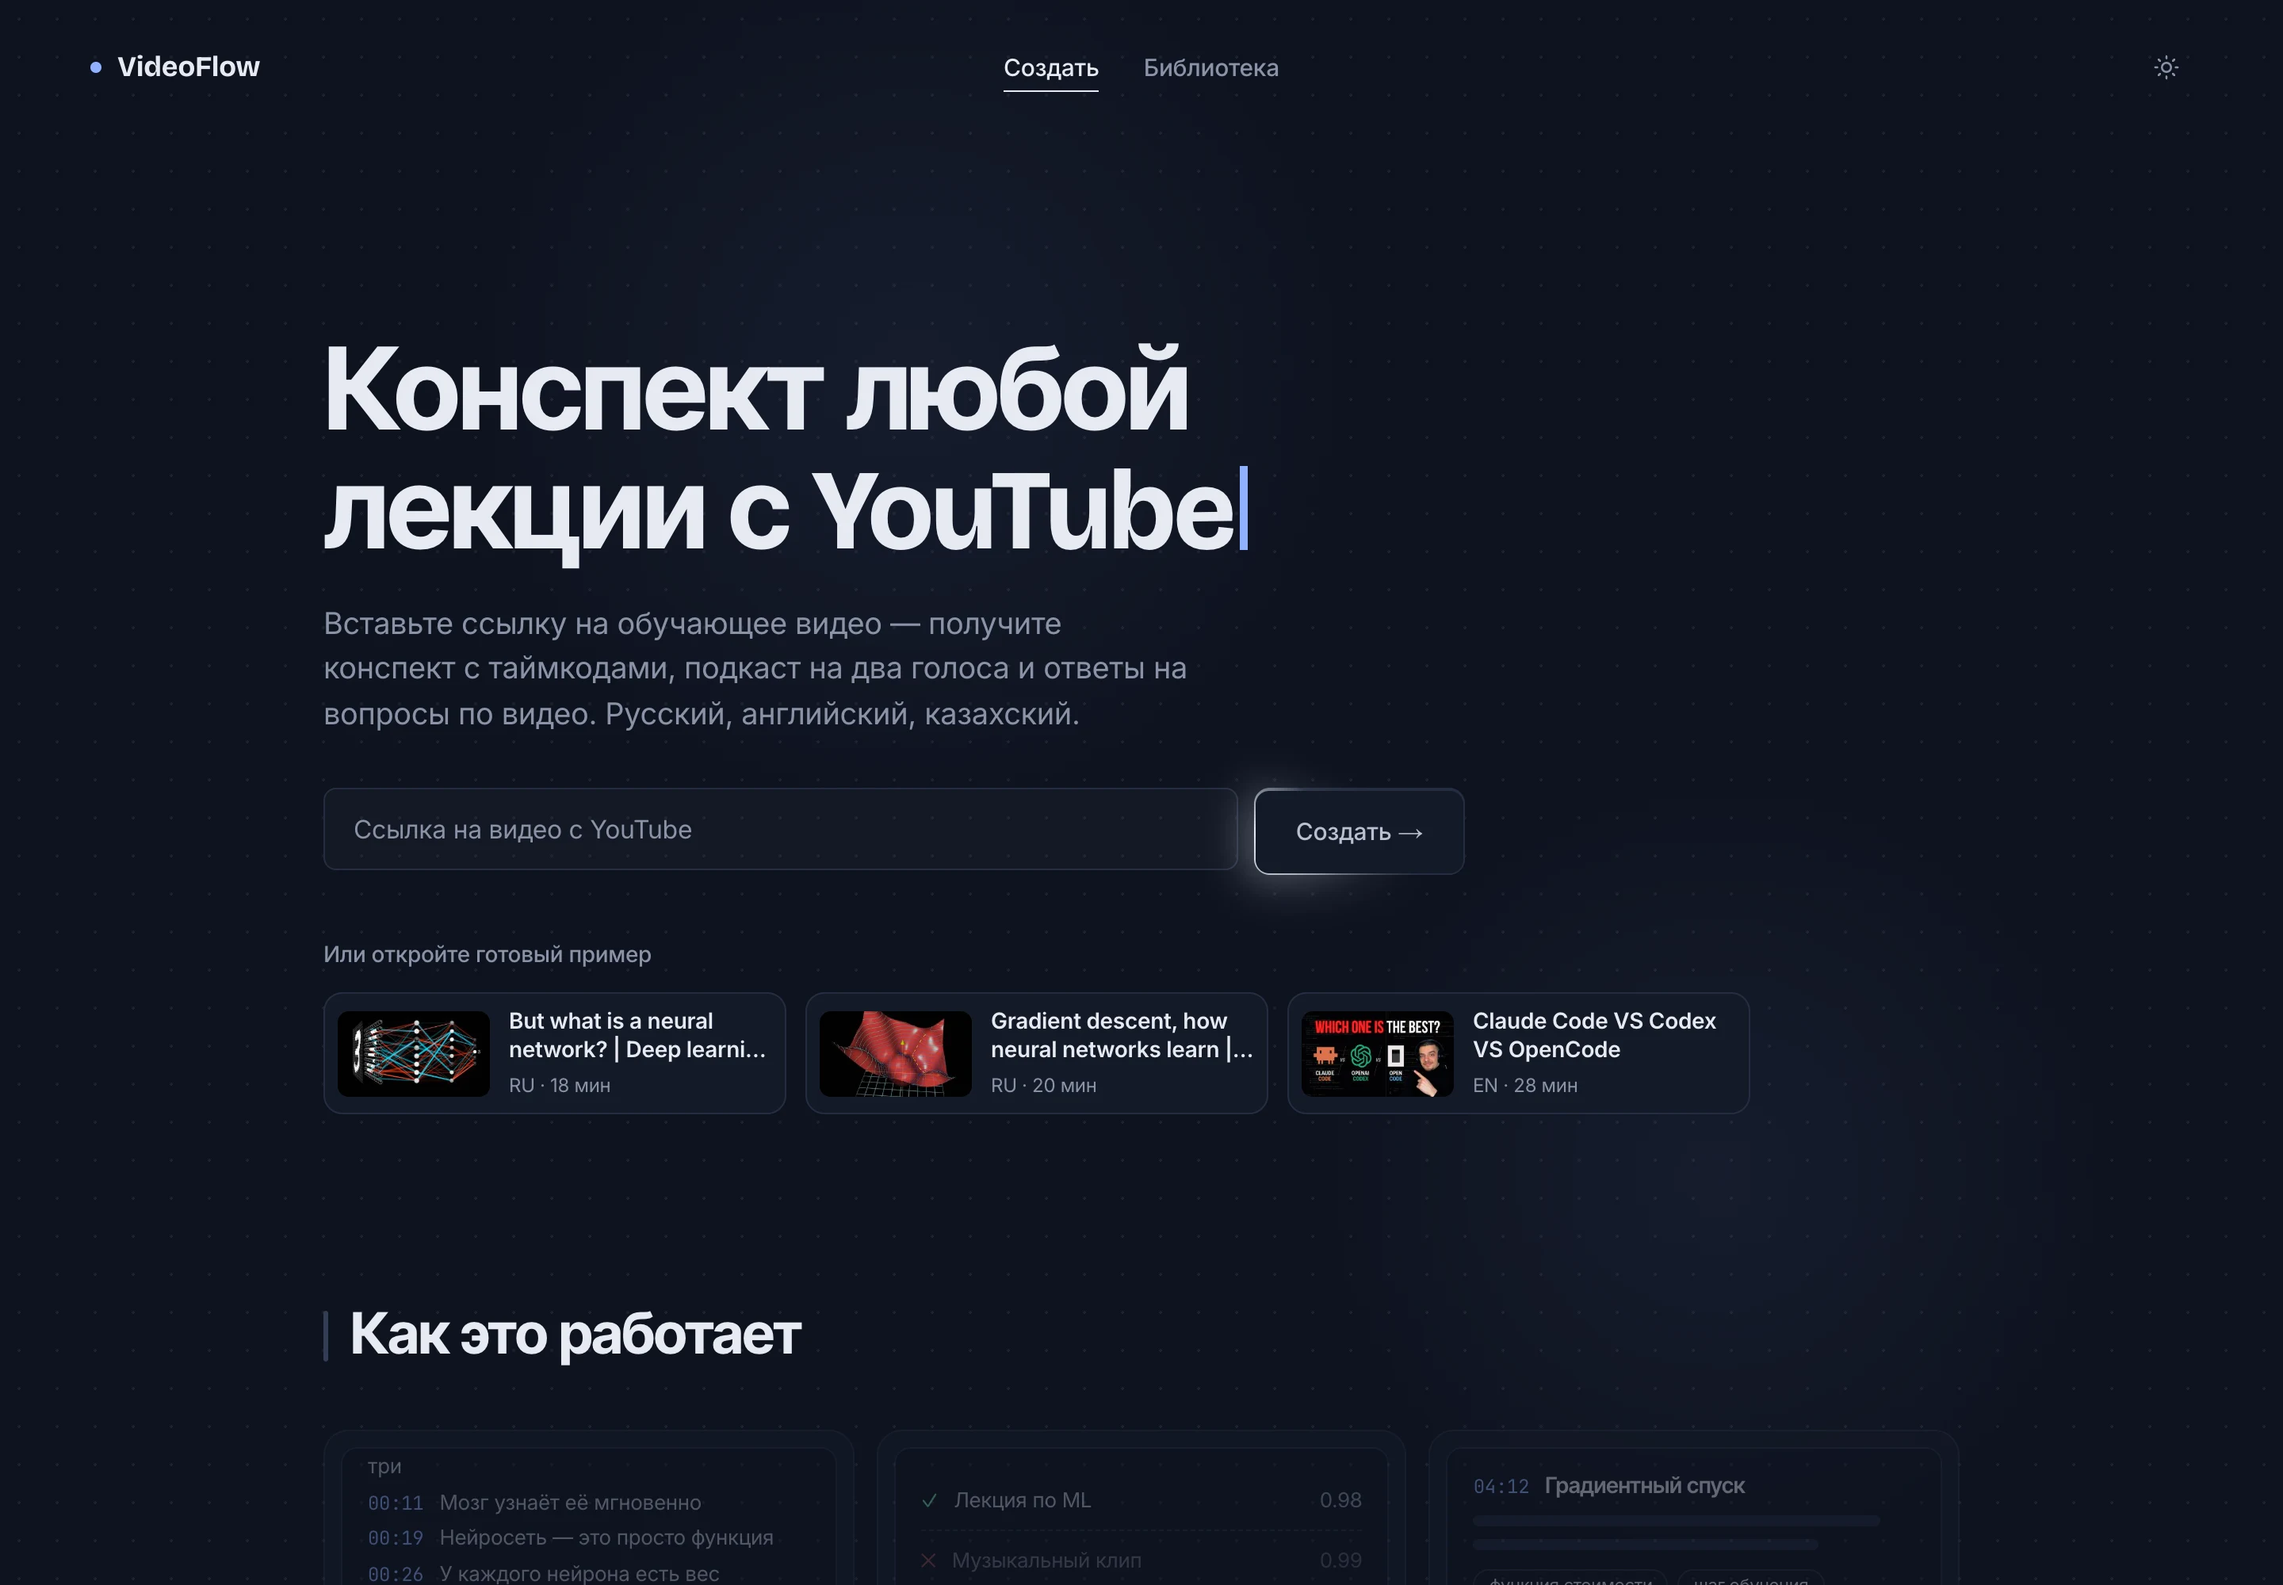
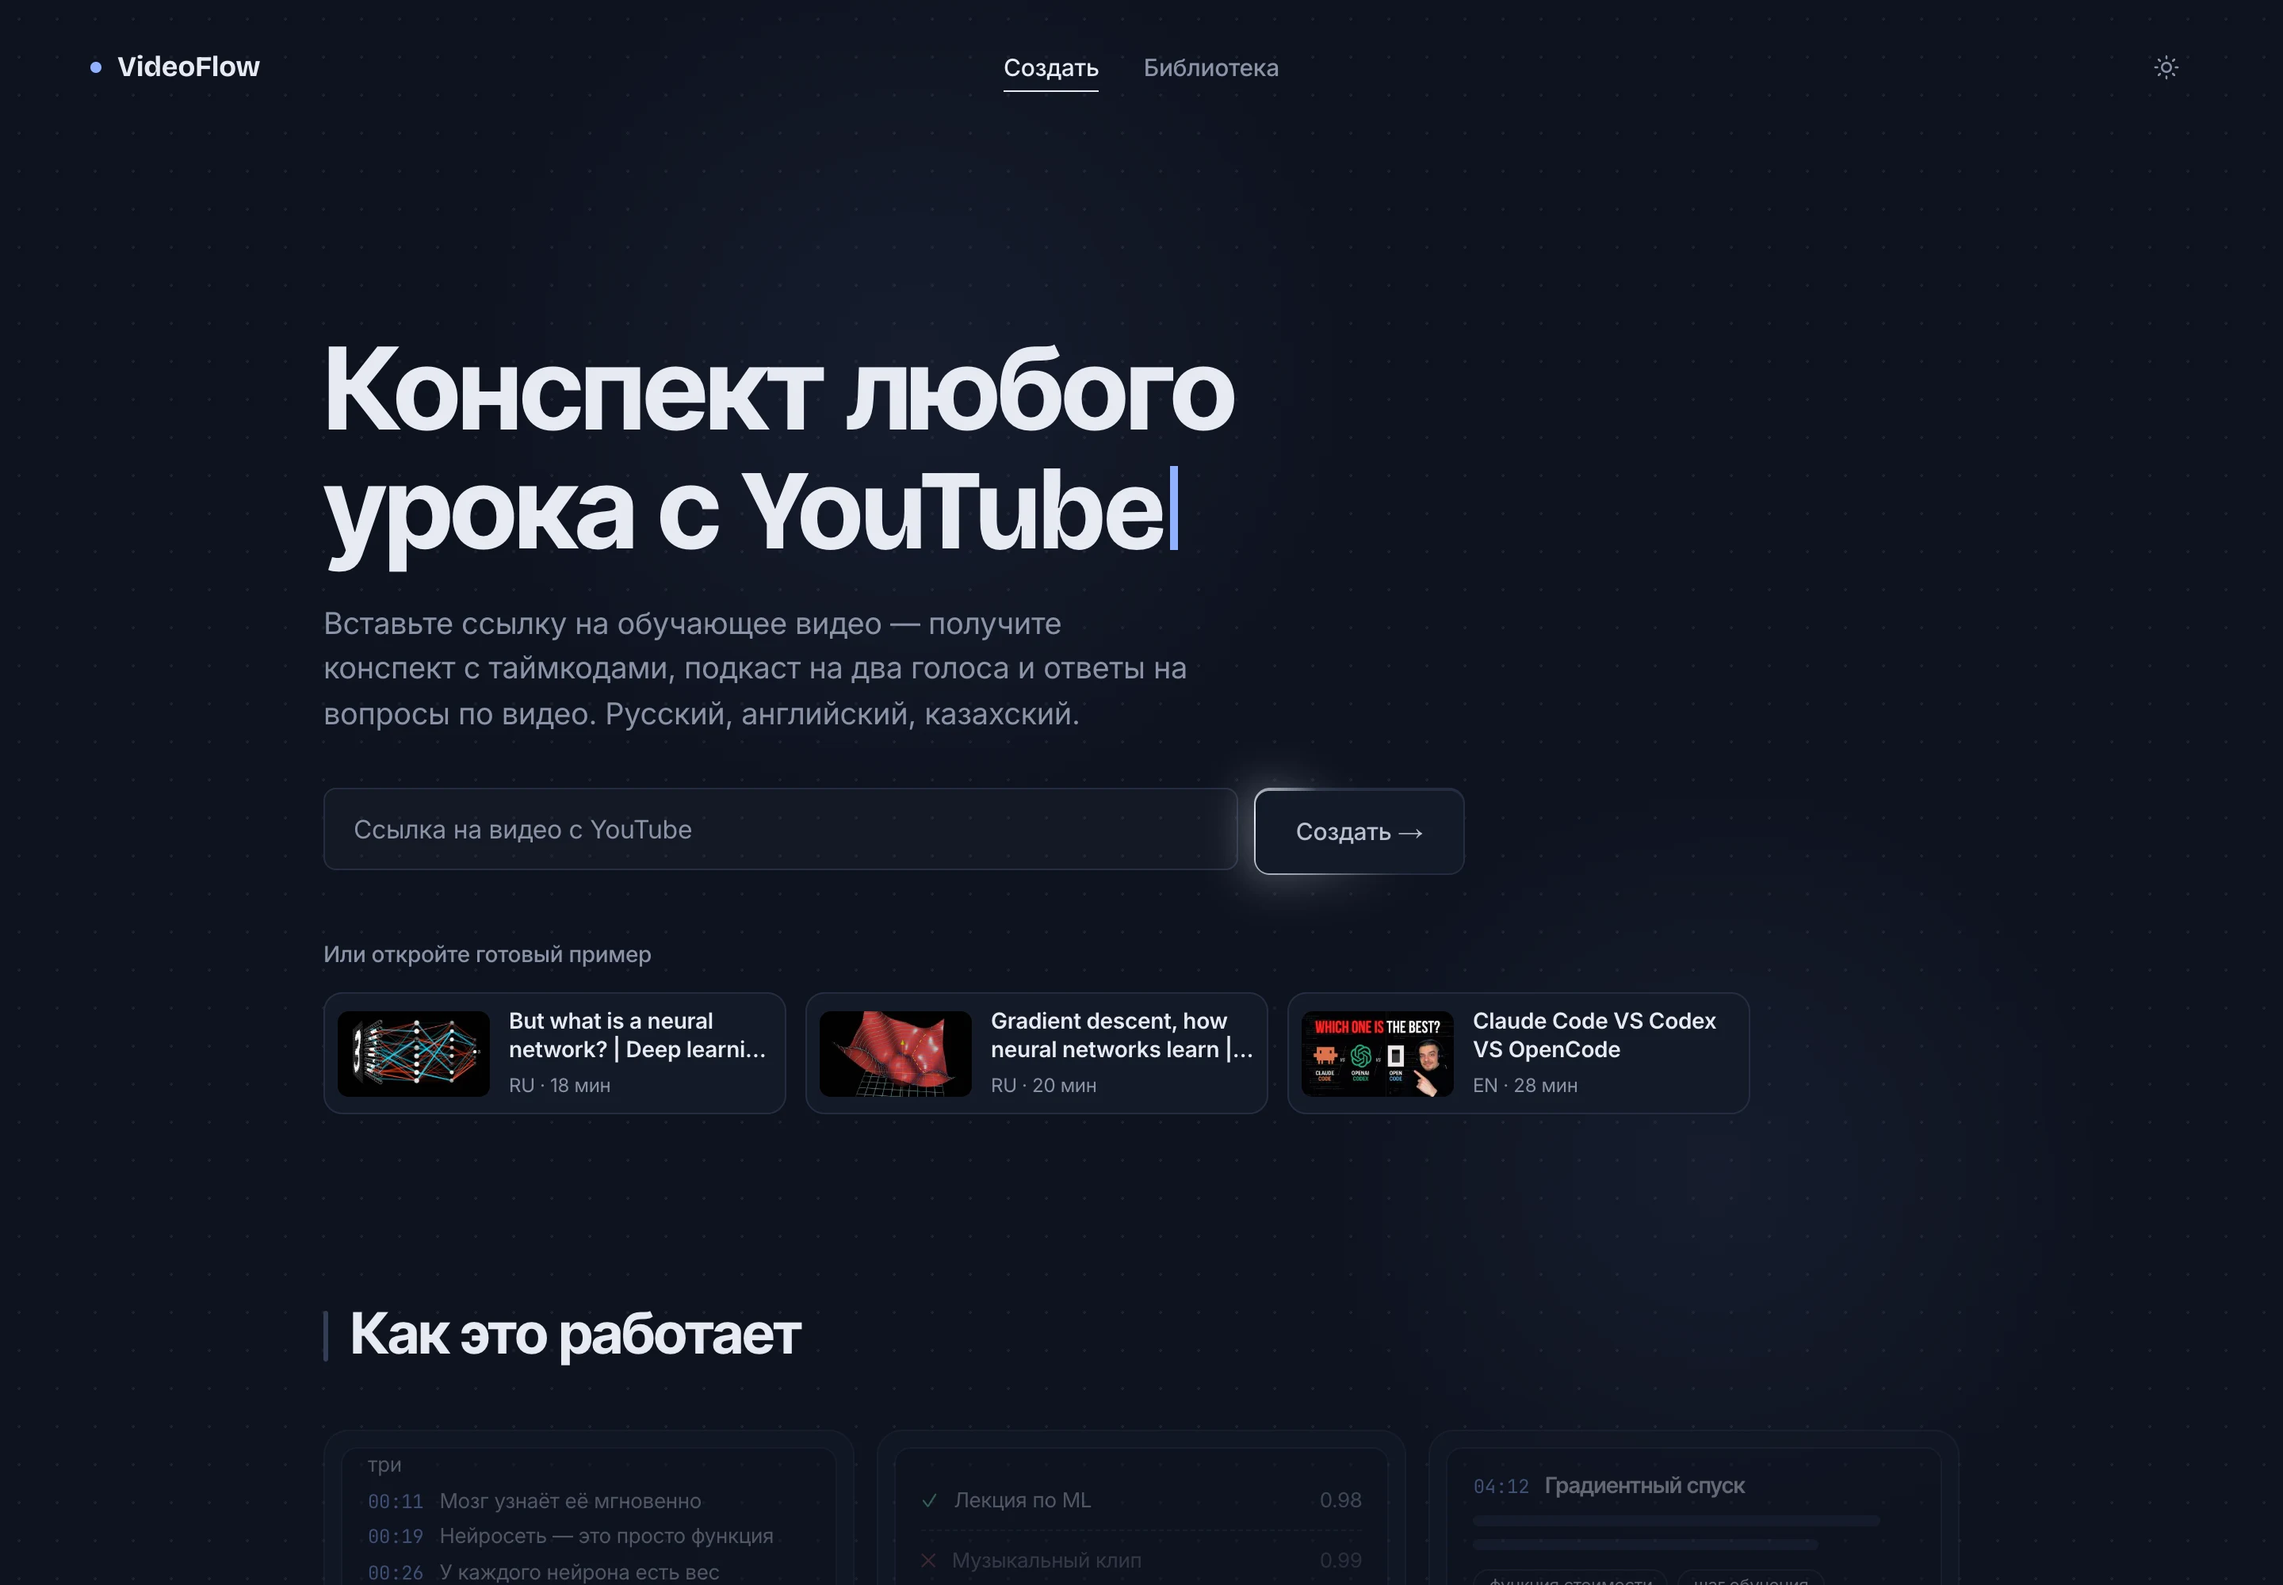
Headline: summary of any YouTube lesson

Changed region(s): [[0.125, 0.279, 0.5625, 0.372], [0.1562, 0.961, 0.3125, 1.0], [0.5, 0.217, 0.5625, 0.279]]

diff --git a/frontend/app/home.tsx b/frontend/app/home.tsx
@@ -96,7 +96,7 @@ const d = (n: number) => ({ "--d": n }) as CSSProperties;
 
 // typewriter for the headline: uneven gaps between keystrokes (ms) read as a person typing;
 // fixed values so the server-rendered HTML and the client agree
-const WORD = "Конспект любой лекции с YouTube";
+const WORD = "Конспект любого урока с YouTube";
 const GAPS = Array.from(WORD, (_, i) => (i ? 40 + ((i * 29) % 50) : 0));
 const KEYSTROKES = GAPS.map((_, i) => 150 + GAPS.slice(0, i + 1).reduce((a, b) => a + b, 0));
 const DONE = KEYSTROKES[KEYSTROKES.length - 1] + 500;
